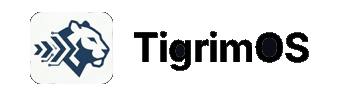
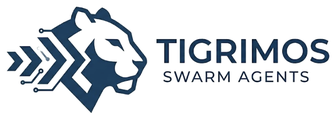
assets: rebuild the TigrimOS and Tigriden marks from source artwork
Both were cut out of screenshots and looked it. TigrimOS now uses the
logo published on tigrimos.github.io. Tigriden has no wordmark of its
own, so this composes one the way its site header does: the 256 px app
icon next to the name set in Inter Bold. Both sit on a white plate now.

Claude-Session: https://claude.ai/code/session_01CeCMLRdQ5UjgigkgFJ7DnU

Changed region(s): [[0.0, 0.0312, 0.9821, 0.9375], [0.0893, 0.125, 0.119, 0.2188], [0.1488, 0.8438, 0.1786, 0.875]]

diff --git a/assets/js/data.js b/assets/js/data.js
@@ -478,7 +478,7 @@ const FEATURED = [
   {
     name: 'Tigriden',
     logo: 'assets/img/software/tigriden.png',
-    plate: 'dark',
+    plate: 'light',
     url: 'https://tigriden.github.io',
     site: 'tigriden.github.io',
     desc: 'A small end-to-end research workbench. Per-folder terminals for AI coding agents, change tracking with one-click rollback, and LaTeX, PDF and Markdown read as typeset pages rather than source.',

diff --git a/index.html b/index.html
@@ -592,7 +592,7 @@
   </div>
 </footer>
 
-<script src="assets/js/data.js?v=383e160e"></script>
+<script src="assets/js/data.js?v=57b5cc84"></script>
 <script src="assets/js/main.js?v=3d29d949"></script>
 </body>
 </html>
